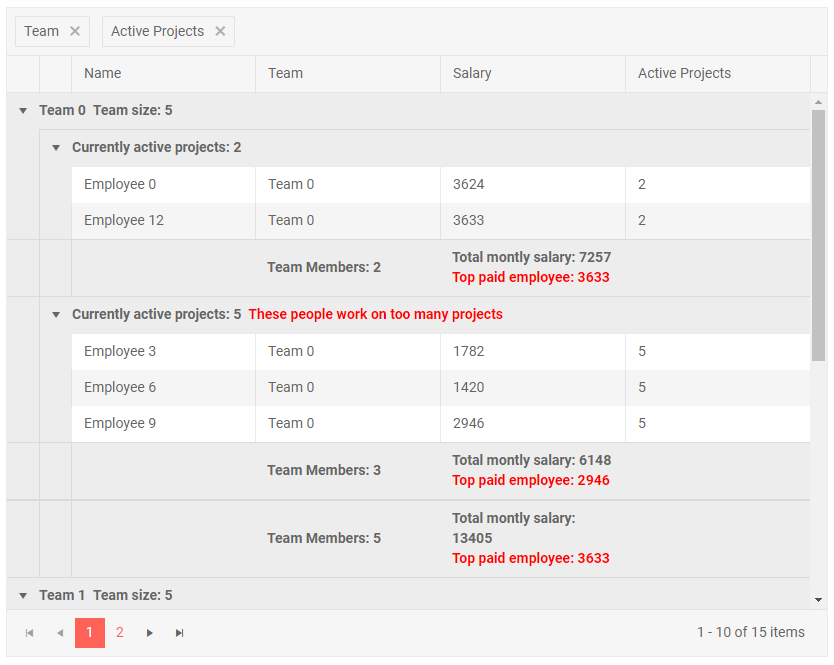
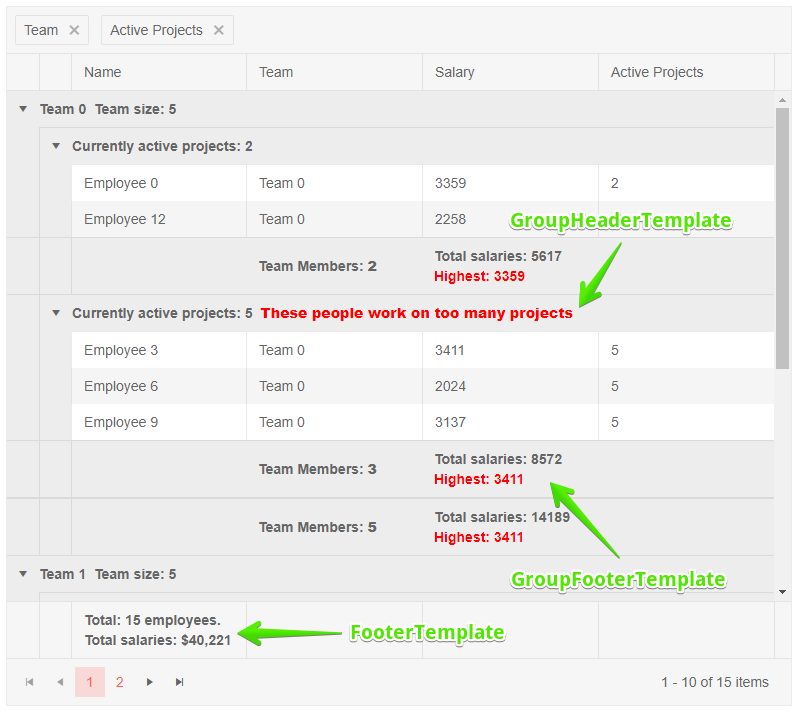
docs(grid): grand total in aggregates

diff --git a/components/grid/aggregates.md b/components/grid/aggregates.md
@@ -10,7 +10,7 @@ position: 23
 
 # Grid Aggregates
 
-The Grid component provides built-in aggregates for column values based on [grouping]({%slug components/grid/features/grouping%}).
+The Grid component provides built-in aggregates for column values based on [grouping]({%slug components/grid/features/grouping%}) and also a grand total row.
 
 There are several available aggregate functions under the `Telerik.Blazor.GridAggregateType` enum:
 
@@ -24,15 +24,17 @@ The `Count` aggregate can be applied to any type of field. The other aggregates 
 
 You can use aggregates in the following templates:
 
-* `GroupFooterTemplate` of a `GridColumn` - a footer in the respective column that renders when the grid is grouped.
-* `GroupHeaderTemplate` of a `GridColumn` - a header in the respective column that renders when the grid is grouped by that column. The `Value` field in the context carries the current group value.
+* [`GroupFooterTemplate`]({%slug grid-templates-column-group-footer%}) of a `GridColumn` - a footer in the respective column that renders when the grid is grouped.
+* [`GroupHeaderTemplate`]({%slug grid-templates-group-header%}) of a `GridColumn` - a header in the respective column that renders when the grid is grouped by that column. The `Value` field in the context carries the current group value.
+* [`FooterTemplate`]({%slug grid-templates-column-footer%}) of a `GridColumn` - a grand total row of footers for the entire grid.
 
 To enable aggregates:
 
-1. Set the grid's `Groupable` property to `true`.
 1. Under the `GridAggregates` tag, define the `GridAggregate` entries to enable the aggregations per field you want to use.
 1. Use the aggregate result in the templates that support it - their `context` is strongly typed and carries the aggregate values in the respective fields.
-1. Group the grid to see the effect
+1. Set the grid's `Groupable` property to `true`.
+    * If you will be using only `FooterTemplate`s - grouping is not required.
+1. Group the grid to see the effect on group-specific templates
 
 You should define only aggregates that you will use to avoid unnecessary calculations that may be noticeable on large data sets.
 
@@ -42,16 +44,30 @@ If you try to use an aggregate that is not defined, or an aggregate over an unsu
 >caption Use Aggregates in the Telerik Blazor Grid
 
 ````CSHTML
-@* Enable and use aggregates. To see the effect, group by a column - "Team" and then "Active Projects" *@
+@* Enable and use aggregates. To see the full effect, group by a column - "Team" and then "Active Projects" *@
 
-<TelerikGrid Data=@GridData Groupable="true" Pageable="true" Height="650px">
+<TelerikGrid Data=@GridData Groupable="true" Pageable="true" Height="700px">
     <GridAggregates>
+        <GridAggregate Field=@nameof(Employee.Name) Aggregate="@GridAggregateType.Count" />
         <GridAggregate Field=@nameof(Employee.Team) Aggregate="@GridAggregateType.Count" />
         <GridAggregate Field=@nameof(Employee.Salary) Aggregate="@GridAggregateType.Max" />
         <GridAggregate Field=@nameof(Employee.Salary) Aggregate="@GridAggregateType.Sum" />
     </GridAggregates>
     <GridColumns>
-        <GridColumn Field=@nameof(Employee.Name) Groupable="false" />
+        <GridColumn Field=@nameof(Employee.Name) Groupable="false">
+            <FooterTemplate>
+                Total: @context.Count employees.
+                <br />
+                @{
+                    // you can use aggregates for other fields/columns by extracting the desired one by its
+                    // field name and aggregate function from the AggregateResults collection
+                    // The type of its Value is determined by the type of its field - decimal for the Salary field here
+                    decimal salaries = (decimal)context.AggregateResults
+                        .FirstOrDefault(r => r.AggregateMethodName == "Sum" && r.Member == "Salary")?.Value;
+                }
+                Total salaries: @salaries.ToString("C0")
+            </FooterTemplate>
+        </GridColumn>
         <GridColumn Field=@nameof(Employee.Team) Title="Team">
             <GroupFooterTemplate>
                 Team Members: <strong>@context.Count</strong>
@@ -64,9 +80,9 @@ If you try to use an aggregate that is not defined, or an aggregate over an unsu
         <GridColumn Field=@nameof(Employee.Salary) Title="Salary" Groupable="false">
             <GroupFooterTemplate>
                 @* you can use a group footer for non-groupable columns as well *@
-                Total montly salary: @context.Sum
+                Total salaries: @context.Sum
                 <br />
-                <span style="color: red;">Top paid employee: @context.Max</span>
+                <span style="color: red;">Highest: @context.Max</span>
             </GroupFooterTemplate>
         </GridColumn>
         <GridColumn Field=@nameof(Employee.ActiveProjects) Title="Active Projects">
@@ -75,7 +91,7 @@ If you try to use an aggregate that is not defined, or an aggregate over an unsu
                     <span>Currently active projects: @context.Value &nbsp;</span>
 
                     //sample of conditional logic in the group header
-                    if ( (int)context.Value > 3) // in a real case, you may want to ensure type safety and add defensive checks
+                    if ((int)context.Value > 3) // in a real case, you may want to ensure type safety and add defensive checks
                     {
                         <strong style="color: red;">These people work on too many projects</strong>
                     }

diff --git a/components/grid/templates/column-footer.md b/components/grid/templates/column-footer.md
@@ -1,0 +1,129 @@
+---
+title: Column Footer
+page_title: Grid - Column Footer Template
+description: Use custom column fotter templates for grand total data in Grid for Blazor.
+slug: grid-templates-column-footer
+tags: telerik,blazor,grid,templates,column,footer,grand,total
+published: True
+position: 20
+---
+
+# Column Footer Template
+
+You can display a grand total row at the bottom of the grid through the `FooterTemplate` of each bound column.
+
+You can use [aggregates]({%slug grid-aggregates%}) for the current field directly from the `context`, and its `AggregateResults` field lets you get aggregates for other fields that you have defined through their field name and aggregate function.
+
+
+>caption Footer Template with grand total data
+
+````CSHTML
+@* Header templates override the built-in title but leave sorting indicators and filter menu icons *@
+
+<TelerikGrid Data="@MyData" Height="300px" Pageable="true" Sortable="true" FilterMode="@GridFilterMode.FilterMenu">
+    <GridColumns>
+        <GridColumn Field="@(nameof(SampleData.ID))" Title="This title will not be rendered">
+            <HeaderTemplate>
+                <div style="text-align:center">Id</div>
+                @* this is a block element and it will push the sorting indicator, see the notes below *@
+            </HeaderTemplate>
+        </GridColumn>
+        <GridColumn Field="@(nameof(SampleData.Name))">
+            <HeaderTemplate>
+                Employee<br /><strong>Name</strong>
+            </HeaderTemplate>
+        </GridColumn>
+        <GridColumn Field="HireDate" Width="350px">
+            <HeaderTemplate>
+                Hire date<br />
+                <TelerikButton OnClick="@DoSomething">Do something</TelerikButton>
+                <br />
+                @{
+                    if (!string.IsNullOrEmpty(result))
+                    {
+                        <span style="color:red;">@result</span>
+                    }
+                    else
+                    {
+                        <div>something will appear here if you click the button</div>
+                    }
+                }
+            </HeaderTemplate>
+        </GridColumn>
+        <GridColumn>
+            <HeaderTemplate>
+                <span class="k-display-flex k-align-items-center">
+                    <TelerikIcon Icon="@IconName.Image" />
+                    Column with Icon
+                </span>
+            </HeaderTemplate>
+        </GridColumn>
+    </GridColumns>
+</TelerikGrid>
+
+@code {
+    string result { get; set; }
+    void DoSomething()
+    {
+        result = $"button in header template clicked on {DateTime.Now}, something happened";
+    }
+
+    public class SampleData
+    {
+        public int ID { get; set; }
+        public string Name { get; set; }
+        public DateTime HireDate { get; set; }
+    }
+
+    public IEnumerable<SampleData> MyData = Enumerable.Range(1, 50).Select(x => new SampleData
+    {
+        ID = x,
+        Name = "name " + x,
+        HireDate = DateTime.Now.AddDays(-x)
+    });
+}
+````
+
+>caption The result from the code snippet above
+
+![](images/header-template.png)
+
+>note Header Templates are not available for the `GridCheckboxColumn` and the `GridCommandColumn`.
+
+>note If you need to use block elements in the header templates, keep in mind that they will push the sort indicator out of its expected position. If you cannot avoid block elements (such as in the `ID` column in the example above), add a CSS rule like the ones below to adjust the sort indicator.
+
+>caption Sort indicator adjustments when block elements are in the header template
+
+````CSS
+.k-grid th.k-header .k-icon.k-i-sort-asc-sm,
+.k-grid th.k-header .k-icon.k-i-sort-desc-sm {
+    position: absolute;
+    right: 0;
+    top: 8px;
+}
+
+/* OR */
+
+.k-grid-header .k-header > .k-link {
+    padding-right: 1.5em;
+}
+
+    .k-grid-header .k-header > .k-link > .k-icon {
+        position: absolute;
+        top: 50%;
+        right: 0.5em;
+        transform: translateY(-50%);
+        margin-left: 0;
+    }
+
+.k-grid-header .k-sort-order {
+    position: absolute;
+    right: 0.25em;
+}
+````
+
+## See Also
+
+ * [Live Demo: Grid Templates](https://demos.telerik.com/blazor-ui/grid/templates)
+ * [Live Demo: Grid Custom Editor Template](https://demos.telerik.com/blazor-ui/grid/customeditor)
+
